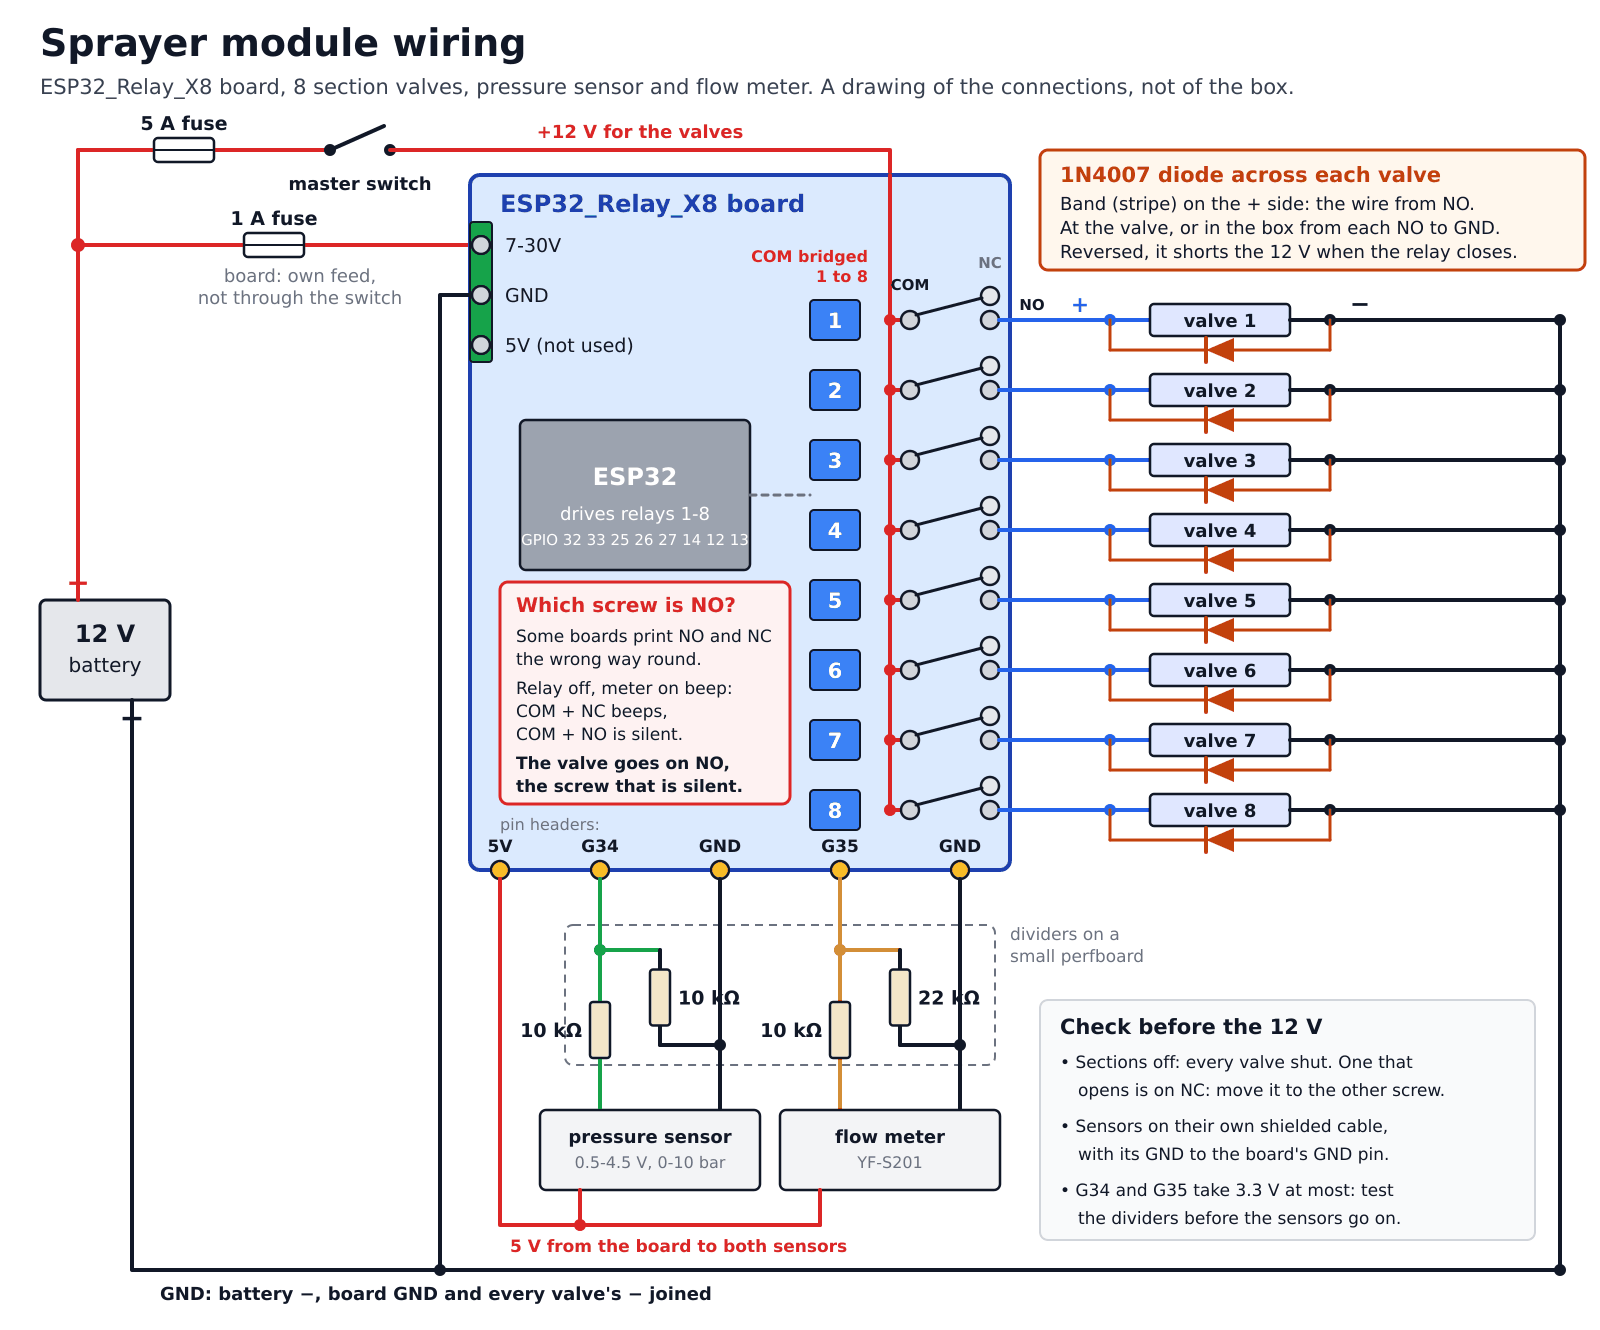
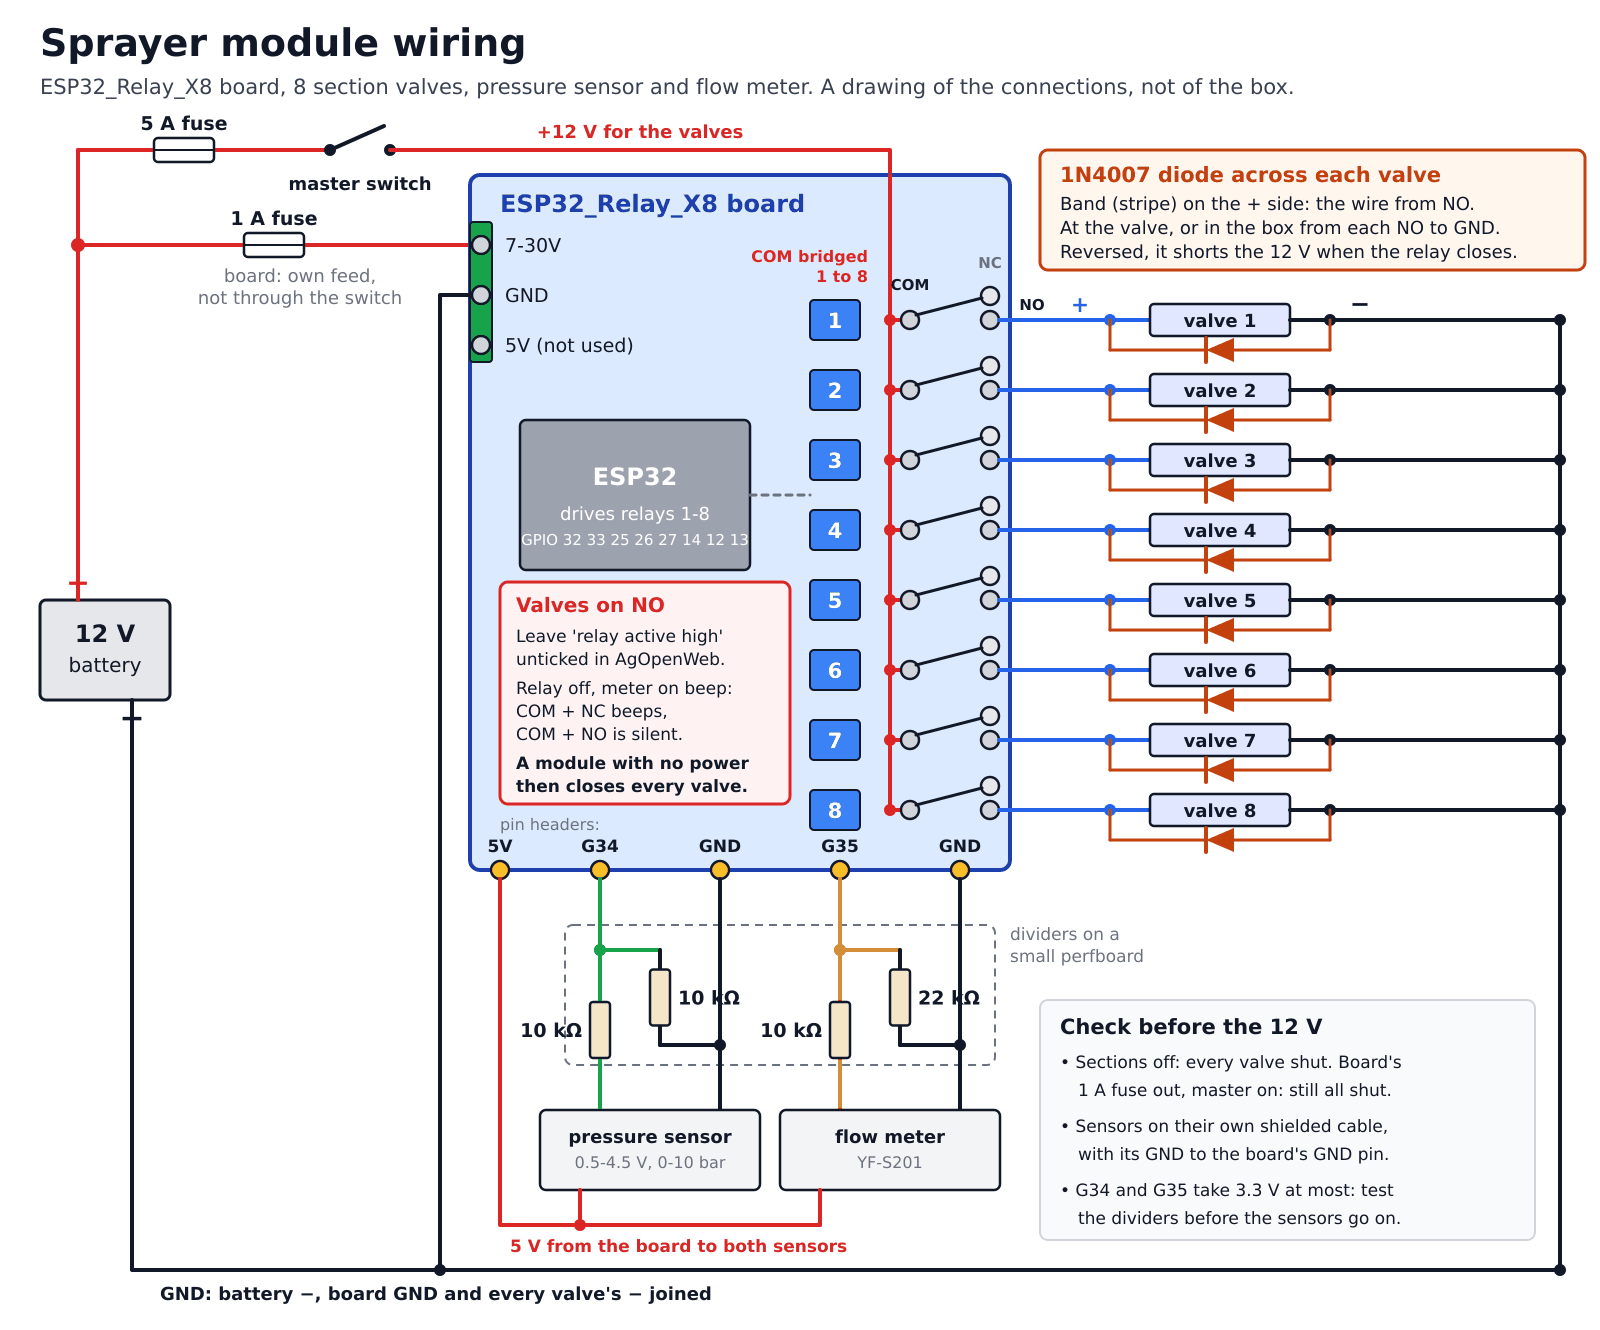
Sprayer README: valves on NO, not "the print is swapped"
A beep test on the board in the photo (relay off: COM + NC beeps, COM + NO
silent) shows its NO / NC print is right, so the "swapped print" text of the
last commit is taken out. Valves that work on NC mean the relays are on
with the sections off ("relay active high" ticked), and then every valve
opens when the module has no power or restarts.

- Drawing: the red box says "Valves on NO", "relay active high" unticked,
  the beep test, and that a module with no power then closes every valve;
  the check box adds "board's 1 A fuse out, master on: still all shut".
- Wiring list: the same, with a link to Setup step 5.
- Photo item 4: just "valve wires, with ferrules".

Claude-Session: https://claude.ai/code/session_01VKEBDFfXqtvjNqD5N49xLV

Changed region(s): [[0.3125, 0.4316, 0.4688, 0.5241], [0.3125, 0.5549, 0.4688, 0.6165], [0.6875, 0.7707, 0.9062, 0.8323]]

diff --git a/Sprayer/Sprayer_ESP32/images/wiring.py b/Sprayer/Sprayer_ESP32/images/wiring.py
@@ -115,16 +115,16 @@ text(635, 485, "ESP32", 24, "white", True, "middle")
 text(635, 520, "drives relays 1-8", 18, "white", False, "middle")
 text(635, 545, "GPIO 32 33 25 26 27 14 12 13", 15, "white", False, "middle")
 line([(750, 495), (810, 495)], GREY, 3, "6 6")
-# which screw is NO: the print can be wrong
+# valves on NO, polarity normal: a module with no power closes every valve
 rect(500, 582, 290, 222, fill="#fef2f2", stroke=RED, sw=3, r=8)
-text(516, 612, "Which screw is NO?", 20, RED, True)
-for k, s in enumerate(("Some boards print NO and NC",
-                       "the wrong way round.",
+text(516, 612, "Valves on NO", 20, RED, True)
+for k, s in enumerate(("Leave 'relay active high'",
+                       "unticked in AgOpenWeb.",
                        "Relay off, meter on beep:",
                        "COM + NC beeps,",
                        "COM + NO is silent.",
-                       "The valve goes on NO,",
-                       "the screw that is silent.")):
+                       "A module with no power",
+                       "then closes every valve.")):
     text(516, 642 + 23 * k + (6 if k >= 2 else 0) + (6 if k >= 5 else 0), s, 17, BLK, k >= 5)
 
 # relays: COM bus at x=890, COM at 910, NC at (990, y-22), NO at (990, y)
@@ -220,8 +220,8 @@ text(160, 1300, "GND: battery −, board GND and every valve's − joined", 18, 
 # ---- checks
 rect(1040, 1000, 495, 240, fill="#f9fafb", stroke="#d1d5db", sw=2, r=8)
 text(1060, 1034, "Check before the 12 V", 21, BLK, True)
-for k, s in enumerate(("Sections off: every valve shut. One that",
-                       "opens is on NC: move it to the other screw.",
+for k, s in enumerate(("Sections off: every valve shut. Board's",
+                       "1 A fuse out, master on: still all shut.",
                        "Sensors on their own shielded cable,",
                        "with its GND to the board's GND pin.",
                        "G34 and G35 take 3.3 V at most: test",

diff --git a/Sprayer/Sprayer_ESP32/README.md b/Sprayer/Sprayer_ESP32/README.md
@@ -15,7 +15,7 @@ One row per day, in short; the details are in the sections of this file (the lin
 
 | Date | What changed |
 |---|---|
-| 27 Nov 2026 | A wiring drawing with a 1N4007 diode across each valve, the NO / NC check for boards printed the wrong way round, the diodes in the parts list, a numbered photo of a built box ([Wiring](#wiring), [The box](#the-box)). |
+| 27 Nov 2026 | A wiring drawing with a 1N4007 diode across each valve, valves on NO so a module with no power closes them, the diodes in the parts list, a numbered photo of a built box ([Wiring](#wiring), [The box](#the-box)). |
 | 24 Nov 2026 | **0.10.22**: an install checks the password before the file is sent ([The Firmware tab](#the-firmware-tab)). **0.10.23**: flow through the meter with every section closed is not counted as applied ([The litres applied](#the-litres-applied)). |
 | 23 Nov 2026 | **0.10.18-20**: after a restart nobody asked for, the module says which watchdog, what it was doing, the last relay change, the crash record ([Why the module started](#why-the-module-started)). **0.10.21**: [dot at the top](#the-dot-at-the-top) orange when the program is silent. |
 | 22 Nov 2026 | **0.10.15**, **0.10.17**: works on the AiO's XIAO WiFi with no router, subnet kept ([No router on the tractor](#no-router-on-the-tractor)). **0.10.16**: litres applied kept through a restart or a power cut; why it started is said ([How it works](#how-it-works)). |
@@ -302,10 +302,11 @@ divider (to-GND ÷ total) in the page's calibration.
 - All grounds (battery, board, valves) joined together.
 - On the tractor, solder the sensor wires or use a latching connector: Dupont jumpers
   come loose with the vibration.
-- **Which screw is NO**: some boards print NO and NC the wrong way round (the one in [the photo](#the-box) too).
+- **The valves go on NO**, with *relay active high* unticked in AgOpenWeb ([Setup](#setup), step 5).
   - Relay off, multimeter on beep: COM beeps with NC, not with NO.
-  - The valve goes on the screw that stays silent, whatever is printed next to it.
-  - Then, with every section off, every valve must stay shut. A valve that opens with its section off is on NC.
+  - Then a module with no power, starting or restarting closes every valve.
+  - Valves on NC with *relay active high* ticked switch the same way with the sections, but every valve opens when the module has no power or restarts.
+  - Check: every section off, every valve shut. Then pull the board's 1 A fuse with the master switch on: no valve may open.
 - One **1N4007 diode across each valve**, the band (stripe) on the + side, the wire from NO.
   - Fit it at the valve, or in the box from each NO terminal to GND.
   - Without it, a valve gives a voltage spike each time its relay opens. The spikes wear the relay contacts and can restart the module.
@@ -320,7 +321,7 @@ A box as built on the sprayer (photo of 25 Nov 2026). The diodes are not in this
 1. ESP32_Relay_X8 board, screwed to the box's mounting plate.
 2. Power terminal: 12 V in (red) and GND (blue).
 3. Brown wire loops bridge the COM terminals, so every relay gets the 12 V for the valves.
-4. Valve wires on the NO contacts, with ferrules. On this board the screws printed NC are the real NO: the print is swapped.
+4. Valve wires, with ferrules.
 5. The sensor dividers on a small perfboard, with screw terminals for the sensor cable.
 6. WAGO 221 lever connectors join the common wires.
 7. In-line fuse holder.
